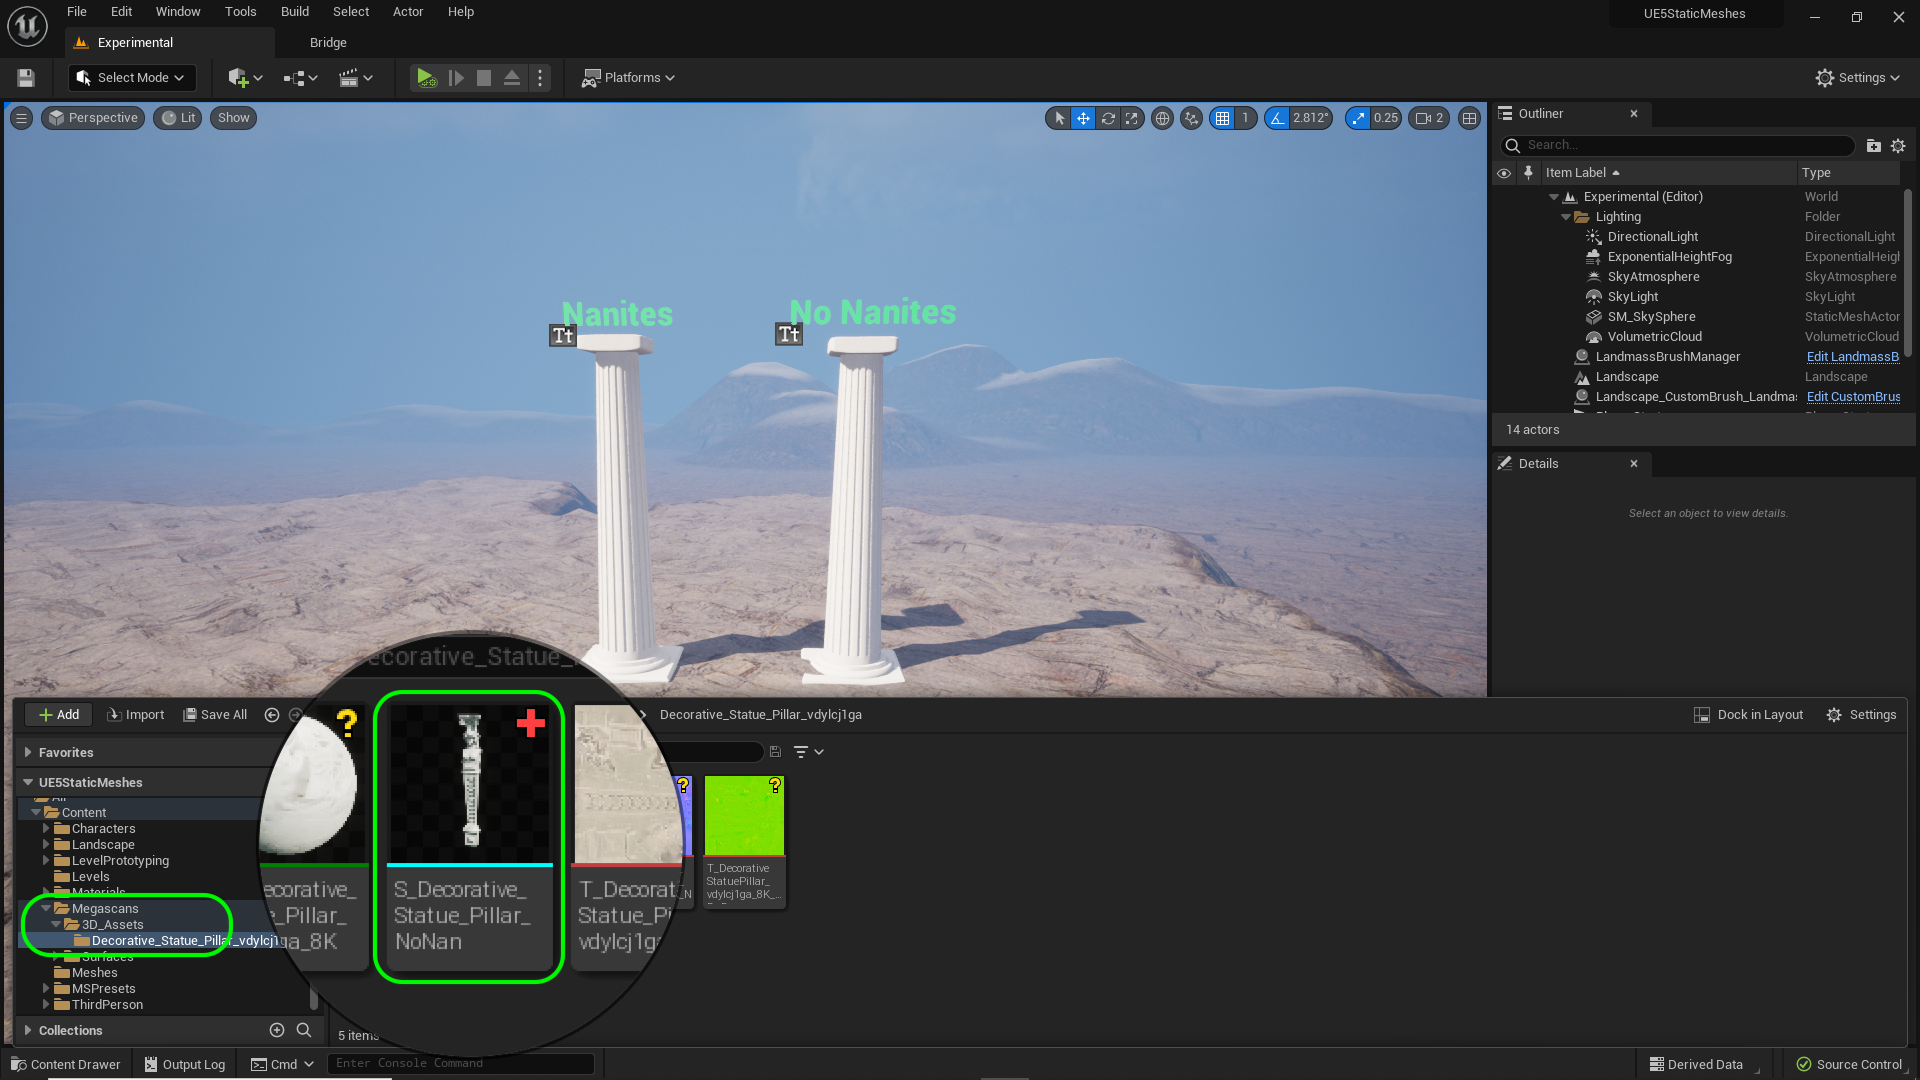
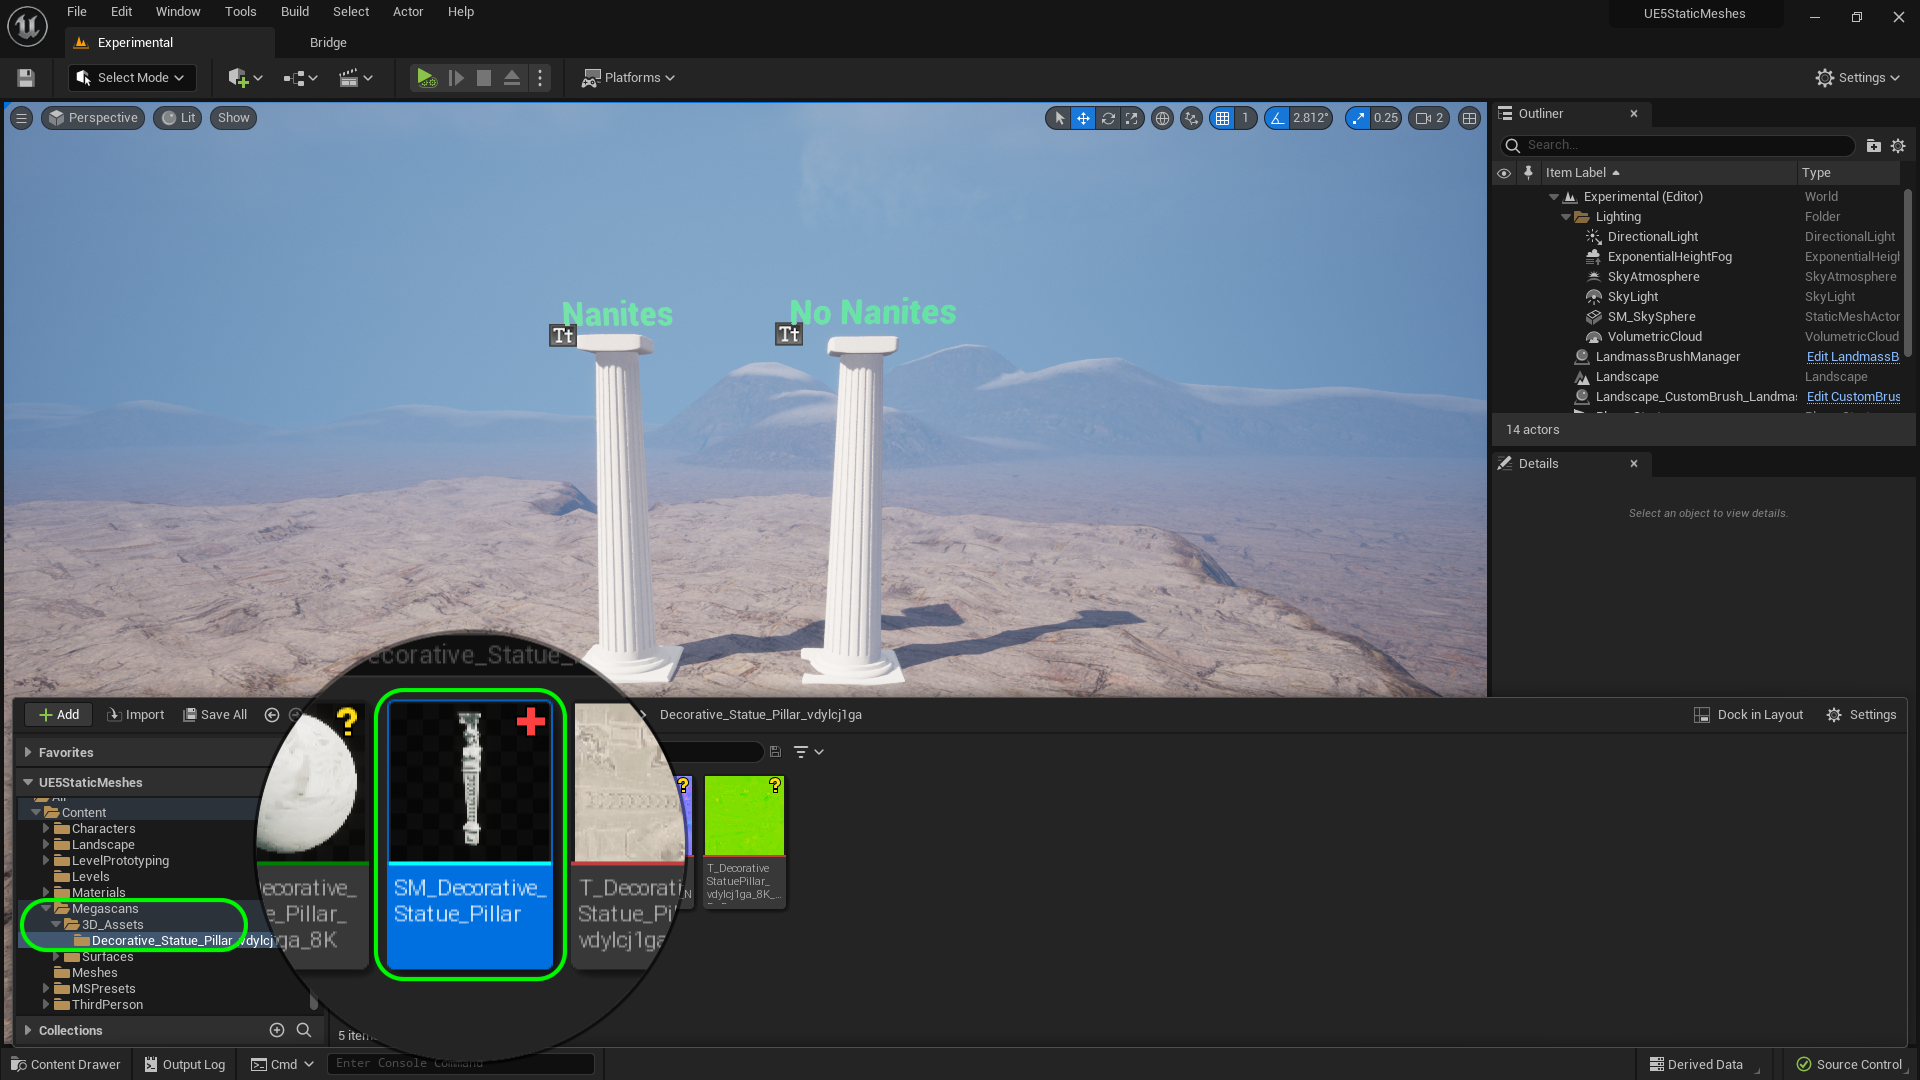
updating sm to ue5

Changed region(s): [[0.0, 0.5806, 0.375, 0.9167], [0.2188, 0.9778, 0.25, 1.0]]

diff --git a/nanites/README.md b/nanites/README.md
@@ -147,14 +147,17 @@ Now the model we made was not that large so lets download a large model that wou
 
 ##### `Step 16.`\|`ITSM`| :large_blue_diamond: :small_orange_diamond:   :small_blue_diamond: 
 
-Now rename the model 
-![alt_text](images/megascanModel.png)
+Now rename the model in **Megascans | SM_Assets | Decorative_Slate_Pillar** to `SM_Decorative_Statue_Pillar`.
+
+![rename to SM_Decorative_Statue_Pillar](images/megascanModel.png)
 
 ![](../images/line2.png)
 
 ##### `Step 17.`\|`ITSM`| :large_blue_diamond: :small_orange_diamond: :small_blue_diamond: :small_blue_diamond:
 
-![alt_text](images/.png)
+Now right click on **SM_Decorative_Statue_Pillar** and select **Duplicate**.  Call this model `SM_Decorative_Statue_Pillar_NoNan`. Double click on this new model and turn **Enable Nanite Support** `off` and press the <kbd>Apply Changes</kbd> button.  
+
+![disable nanites on duplicated model called SM_Decorative_Statue_Pillar_NoNan](images/noNaniteVersion.png)
 
 ![](../images/line2.png)
 
